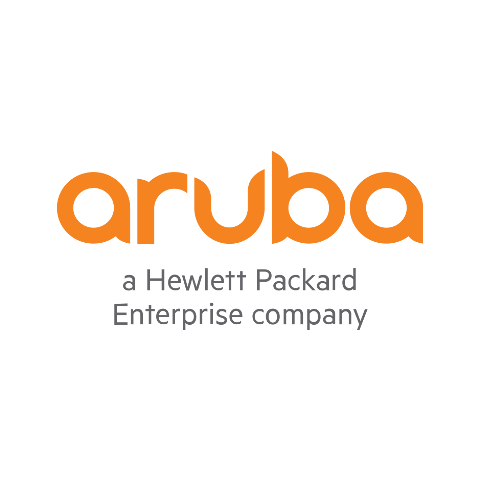
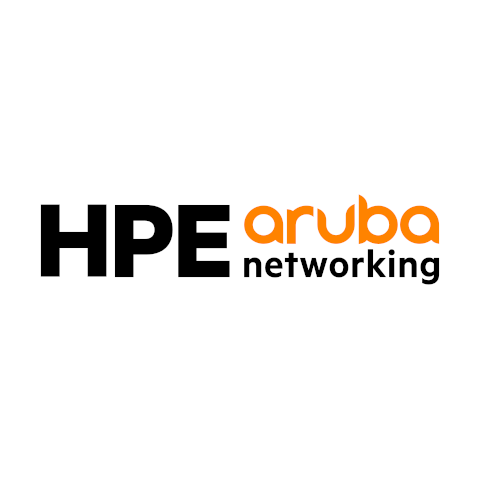
Added ambient infrastructure partnerships

Changed region(s): [[0.0625, 0.3125, 0.9375, 0.6875]]

diff --git a/pareto/anywhere/infrastructure/index.html b/pareto/anywhere/infrastructure/index.html
@@ -409,6 +409,24 @@
       </div>
       <div class="row justify-content-center">
         <div class="col-sm-12 col-md-10 col-lg-8 col-xl-6">
+          <h2 class="mt-5"> Ambient Infrastructure Partnerships </h2>
+          <!----- HPE Aruba Networking ----->
+          <div class="card hover-shadow rounded my-4">
+            <div class="row g-0">
+              <div class="col-md-3 align-self-center">
+                <img src="../../../images/infrastructure-aruba.png"
+                     class="img-fluid rounded-start">
+              </div>
+              <div class="col-md-9 align-self-center">
+                <div class="card-body">
+                  <h4 class="card-title"> HPE Aruba Networking </h4>
+                  <p class="card-text"> Approximately 35 million deployed Aruba APs represent ambient infrastructure compatible with Pareto Anywhere. </p>
+                  <a href="aruba/#content" class="btn btn-primary"
+                     role="button"> Learn more </a>
+                </div>
+              </div>
+            </div>
+          </div>
           <div class="row row-cols-2 row-cols-xxl-3 g-4 my-4">
             <!-- Aruba AP -->
             <div class="col" id="aruba-ap">
